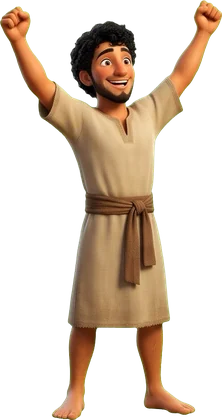
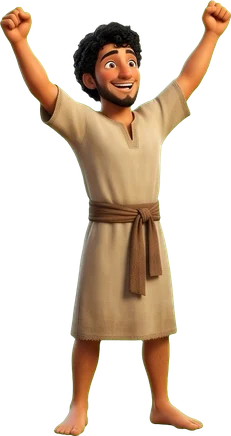
Scènes : taille constante des personnages (même échelle par planche, sans zoom), chef de Babel dans le bon sens, vautours venant du côté d'Abram
Claude-Session: https://claude.ai/code/session_013HPj2mwu9D7hiNDPhhnn6q

diff --git a/index.html b/index.html
@@ -1,4 +1,4 @@
-<!doctype html><html lang="fr"><head><meta charset="utf-8"><meta name="viewport" content="width=device-width,initial-scale=1,viewport-fit=cover"><meta name="theme-color" content="#1f4fd1"><meta name="description" content="Parcours Biblique : le jeu gratuit pour parcourir toute la Bible, niveau par niveau, et défier d'autres disciples en ligne."><link rel="manifest" href="/manifest.webmanifest"><link rel="icon" href="/icons/icon-192.png"><link rel="apple-touch-icon" href="/icons/apple-touch-icon.png"><meta name="apple-mobile-web-app-capable" content="yes"><meta name="mobile-web-app-capable" content="yes"><meta name="apple-mobile-web-app-title" content="Parcours Biblique"><script>window.PB_BUILD="e51178dbf0";</script><style>html,body{margin:0;height:100%}</style></head><body><script src="https://cdn.jsdelivr.net/npm/@supabase/supabase-js@2.45.4/dist/umd/supabase.js"></script>
+<!doctype html><html lang="fr"><head><meta charset="utf-8"><meta name="viewport" content="width=device-width,initial-scale=1,viewport-fit=cover"><meta name="theme-color" content="#1f4fd1"><meta name="description" content="Parcours Biblique : le jeu gratuit pour parcourir toute la Bible, niveau par niveau, et défier d'autres disciples en ligne."><link rel="manifest" href="/manifest.webmanifest"><link rel="icon" href="/icons/icon-192.png"><link rel="apple-touch-icon" href="/icons/apple-touch-icon.png"><meta name="apple-mobile-web-app-capable" content="yes"><meta name="mobile-web-app-capable" content="yes"><meta name="apple-mobile-web-app-title" content="Parcours Biblique"><script>window.PB_BUILD="c96ccad840";</script><style>html,body{margin:0;height:100%}</style></head><body><script src="https://cdn.jsdelivr.net/npm/@supabase/supabase-js@2.45.4/dist/umd/supabase.js"></script>
 <title>Parcours Biblique</title>
 <meta name="claude:viewport-fit-sides" content="cover">
 <link rel="preconnect" href="https://fonts.googleapis.com">
@@ -5540,23 +5540,23 @@ const SC={
  creation:{c:"Les ténèbres couvrent l'abîme",sky:"night",h:["🌍"],k:"dark",r:"Genèse 1:2",
    art:{dir:"creation",mode:"reveal",light:"lumiere",dark:"tenebres",bgFocus:.5,sk:"dark",snd:{}}},
  eden:{c:"Le serpent s'approche d'Ève",sky:"garden",h:["bib:eve"],p:"🌳",k:"walk",e:"🐍",r:"Genèse 3:1",
-   art:{dir:"eden",bg:"bg",bgFocus:.62,feet:.86,hero:{calm:"eve-calme",fear:"eve-peur",joy:"eve-joie",h:.66},threat:{walk:"serpent-rampe",attack:"serpent-dresse",h:.34,ha:.62,slither:1},snd:{}}},
+   art:{dir:"eden",bg:"bg",bgFocus:.62,feet:.86,hero:{calm:"eve-calme",fear:"eve-peur",joy:"eve-joie",h:.66,jh:1.08},threat:{walk:"serpent-rampe",attack:"serpent-dresse",h:.34,ha:.62,slither:1},snd:{}}},
  cain:{c:"Caïn s'approche d'Abel dans les champs",sky:"field",h:["bib:abel"],p:"🐑",k:"walk",e:"bib:cain",r:"Genèse 4:8",
    art:{dir:"cain",lamb:1,bg:"bg",bgFocus:.42,feet:.9,sk:"steps",voice:{p:1.25,fs:1.2},hero:{calm:"abel-calme",fear:"abel-peur",joy:"abel-joie",h:.66,jh:1.05},threat:{walk:"cain-marche",attack:"cain-attaque",h:.7,ha:.66,faceR:1,reach:.2},snd:{}}},
  flood:{c:"Les eaux montent : fais entrer les animaux",sky:"storm",h:["🐘","🦒"],p:"ark",pk:"bib:noe",k:"rise",e:"water",board:1,r:"Genèse 7:7-17",
    art:{dir:"flood",mode:"flood",bg:"bg",bgFocus:.45,sk:"flood",voice:{p:.42,fs:.85},pre:["arche","noe-peur","noe-joie","elephants-triste","elephants-joie","girafes-triste","girafes-joie"],snd:{}}},
  babel:{c:"Les langues sont confondues sur le chantier",sky:"day",h:["🧱"],p:"tower",k:"swarm",e:"💬",n:6,r:"Genèse 11:7",
-   art:{dir:"babel",bg:"bg",bgFocus:.62,feet:.9,sk:"steps",voice:{p:.55,fs:.9},hero:{calm:"ouvrier-calme",fear:"ouvrier-peur",joy:"ouvrier-joie",h:.66,jh:1.05},threat:{walk:"chef-marche",attack:"chef-crie",h:.62,ha:.64,angry:1,reach:.2,shout:["Balal !","Zibuk !","Krrah ?!","Mahta !","Ourouk !","Shpik !","Gnaa ?!"]},snd:{}}},
+   art:{dir:"babel",bg:"bg",bgFocus:.62,feet:.9,sk:"steps",voice:{p:.55,fs:.9},hero:{calm:"ouvrier-calme",fear:"ouvrier-peur",joy:"ouvrier-joie",h:.66},threat:{walk:"chef-marche",attack:"chef-crie",h:.62,faceR:1,reach:.2,shout:["Balal !","Zibuk !","Krrah ?!","Mahta !","Ourouk !","Shpik !","Gnaa ?!"]},snd:{}}},
  famine:{c:"La famine frappe le pays",sky:"desert",h:["bib:abraham"],p:"🐑",k:"dry",r:"Genèse 12:10",
-   art:{dir:"abram",mode:"reveal",light:"vert",dark:"sec",bgFocus:.3,feet:.93,tint:"110,60,10",rays:false,sk:"dry",voice:{p:.42,fs:.85},hero:{calm:"abram-calme",fear:"abram-peur",joy:"abram-joie",h:.68,fh:.68,jh:1.02},snd:{}}},
+   art:{dir:"abram",mode:"reveal",light:"vert",dark:"sec",bgFocus:.3,feet:.93,tint:"110,60,10",rays:false,sk:"dry",voice:{p:.42,fs:.85},hero:{calm:"abram-calme",fear:"abram-peur",joy:"abram-joie",h:.68},snd:{}}},
  lot:{c:"Les rois emmènent Lot prisonnier",sky:"desert",h:["🧔🏽"],p:"⛺",k:"walk",e:"🐎",n:3,r:"Genèse 14:12",
-   art:{dir:"lot",bg:"bg",bgFocus:.05,feet:.93,sk:"steps",voice:{p:.5,fs:.9},hero:{calm:"lot-calme",fear:"lot-peur",joy:"lot-joie",h:.64,jh:1},threat:{walk:"soldat-marche",attack:"soldat-charge",h:.64,ha:.64,faceR:1,reach:.22},snd:{}}},
+   art:{dir:"lot",bg:"bg",bgFocus:.05,feet:.93,sk:"steps",voice:{p:.5,fs:.9},hero:{calm:"lot-calme",fear:"lot-peur",joy:"lot-joie",h:.64},threat:{walk:"soldat-marche",attack:"soldat-charge",h:.64,faceR:1,reach:.22},snd:{}}},
  prey:{c:"Les oiseaux de proie s'abattent sur l'offrande",sky:"dusk",h:["bib:abraham"],p:"🔥",k:"fall",e:"🦅",r:"Genèse 15:11",
-   art:{dir:"abram",mode:"fly",bg:"autel",bgFocus:.72,feet:.93,sk:"birds",voice:{p:.42,fs:.85},hero:{calm:"abram-calme",fear:"abram-peur",joy:"abram-joie",h:.68,fh:.68,jh:1.02},threat:{walk:"vautour-vol",attack:"vautour-pique",walkFaceR:1,h:.3,ha:.38,tx:.66,ty:.34,flock:2},snd:{}}},
+   art:{dir:"abram",mode:"fly",bg:"autel",bgFocus:.72,feet:.93,sk:"birds",voice:{p:.42,fs:.85},hero:{calm:"abram-calme",fear:"abram-peur",joy:"abram-joie",h:.68},threat:{walk:"vautour-vol",attack:"vautour-pique",walkFaceR:1,h:.3,tx:.66,ty:.34,flock:2},snd:{}}},
  agar:{c:"L'eau de l'outre est épuisée",sky:"desert",h:["bib:agar","bib:ismael"],k:"dry",r:"Genèse 21:15",
-   art:{dir:"agar",mode:"heat",bg:"bg",bgFocus:.5,feet:.93,sk:"dry",voice:{p:1,fs:1},hero:{calm:"agar-calme",fear:"agar-peur",joy:"agar-joie",h:.62,fh:.46,jh:1},reward:"puits",rh:.5,snd:{}}},
+   art:{dir:"agar",mode:"heat",bg:"bg",bgFocus:.5,feet:.93,sk:"dry",voice:{p:1,fs:1},hero:{calm:"agar-calme",fear:"agar-peur",joy:"agar-joie",h:.62},reward:"puits",rh:.5,snd:{}}},
  sodom:{c:"Le soufre et le feu tombent sur Sodome",sky:"fire",h:["👨👩👧"],k:"fall",e:"🔥",r:"Genèse 19:24",
-   art:{dir:"sodom",mode:"firerain",bg:"bg",bgFocus:.5,feet:.93,sk:"fire",voice:{p:.9,fs:1},hero:{calm:"famille-fuit",fear:"famille-peur",joy:"famille-joie",h:.6,fh:.56,jh:1,sweat:"🔥"},threat:{walk:"feu"},snd:{}}},
+   art:{dir:"sodom",mode:"firerain",bg:"bg",bgFocus:.5,feet:.93,sk:"fire",voice:{p:.9,fs:1},hero:{calm:"famille-fuit",fear:"famille-peur",joy:"famille-joie",h:.6,sweat:"🔥"},threat:{walk:"feu"},snd:{}}},
  promise:{c:"Rien n'est impossible à l'Éternel",sky:"night",h:["bib:sara"],p:"⭐",k:"time",r:"Genèse 18:14"},
  moriah:{c:"Sur le mont Morija, Dieu pourvoira",sky:"dusk",h:["bib:isaac"],p:"🪵",k:"time",r:"Genèse 22:8"},
  well:{c:"Le soir tombe près du puits",sky:"dusk",h:["bib:eliezer"],p:"🐫",k:"dark",r:"Genèse 24:11"},
@@ -5911,7 +5911,7 @@ function seFig(c,a,name,x,feet,hh,o={}){const im=seSpr(a.dir,name);if(!seOk(im))
   c.drawImage(im,-w/2,-hh,w,hh);c.restore();return w;}
 /* héros : calme -> peur (danger proche) -> joie (bonne réponse), avec respiration, tremblement et saut */
 function seHero(c,a,hx,feet,p,st,t,o={}){const he=a.hero;if(!he)return 0;const pose=st==="win"?he.joy:(st==="hit"||st==="lose"||p>.45)?he.fear:he.calm,im=seSpr(a.dir,pose);if(!seOk(im))return 0;
-  const hh=SE.H*(he.h||.62)*(pose===he.joy?(he.jh||1.08):pose===he.fear?(he.fh||1):1),hw=im.naturalWidth*hh/im.naturalHeight;
+  const hh=SE.H*(he.h||.62)*(im.naturalHeight/(he.ref||420))*(pose===he.joy?(he.jh||1):pose===he.fear?(he.fh||1):1),hw=im.naturalWidth*hh/im.naturalHeight;
   const jump=st==="win"?Math.abs(Math.sin(SE.st*8))*16*Math.max(0,1-SE.st/1.3):0,trem=(p>.7&&!st)||st==="hit"?(Math.random()-.5)*(st==="hit"?6:3):0,breath=Math.sin(t*3)*.012;
   seShadow(c,hx,feet-2,Math.min(hw,SE.H*.3)*.42);
   c.save();c.translate(hx+trem,feet-jump);if(he.flip)c.scale(-1,1);c.scale(1-breath*.5,1+breath);if(st==="lose")c.filter="grayscale(.7)";c.drawImage(im,-hw/2,-hh,hw,hh);c.restore();
@@ -5919,7 +5919,7 @@ function seHero(c,a,hx,feet,p,st,t,o={}){const he=a.hero;if(!he)return 0;const p
   return hw;}
 function seShadow(c,x,y,w){c.fillStyle="rgba(0,0,0,.2)";c.beginPath();c.ellipse(x,y,w,4,0,0,7);c.fill();}
 function seCam(c,W,H,p,st,fx,fy){if(SE.shake>0)c.translate((Math.random()-.5)*12*SE.shake,(Math.random()-.5)*7*SE.shake);
-  const z=1+(st==="win"?0:Math.min(1,p))*.07;c.translate(fx,fy);c.scale(z,z);c.translate(-fx,-fy);}
+  }
 function seOverlays(c,W,H,st){if(SE.flash>0){c.fillStyle=`rgba(214,50,63,${SE.flash*.45})`;c.fillRect(0,0,W,H);}if(st==="lose"){c.fillStyle="rgba(20,20,30,.28)";c.fillRect(0,0,W,H);}}
 function seDrawArt(c,s,dt){const a=s.art;if(a.mode==="reveal")return seDrawReveal(c,s,dt);if(a.mode==="flood")return seDrawFlood(c,s,dt);if(a.mode==="fly")return seDrawFly(c,s,dt);if(a.mode==="heat")return seDrawHeat(c,s,dt);if(a.mode==="firerain")return seDrawFireRain(c,s,dt);
   const W=SE.W,H=SE.H,p=Math.max(0,SE.p),st=SE.state,t=SE.t;
@@ -5928,7 +5928,7 @@ function seDrawArt(c,s,dt){const a=s.art;if(a.mode==="reveal")return seDrawRevea
   seHero(c,a,hx,feet,p,st,t);
   /* danger */
   const th=a.threat,near=p>.84||st==="hit"||st==="lose",tn=near&&th.attack?th.attack:th.walk,ti=seSpr(a.dir,tn);
-  if(seOk(ti)){const thh=H*(near&&th.attack?th.ha||.6:th.h||.4),tw=ti.naturalWidth*thh/ti.naturalHeight;
+  if(seOk(ti)){const wi=seSpr(a.dir,th.walk),thh=near&&th.attack?(th.ha?H*th.ha:H*(th.h||.4)*ti.naturalHeight/(seOk(wi)?wi.naturalHeight:ti.naturalHeight)):H*(th.h||.4),tw=ti.naturalWidth*thh/ti.naturalHeight;
     const reach=hx+W*(near?(th.reach||.16):.1)+tw*.5,start=W+tw*.6;let X=reach+(start-reach)*(1-Math.min(1.04,p)),flip=!!th.faceR;
     if(st==="win"){X=reach+(start-reach)*(1-Math.min(1,p))+Math.pow(SE.st,2)*W*1.6;flip=!flip;}
     const wob=th.slither?Math.sin(t*7)*.05:0,bob=th.slither?Math.sin(t*14)*1.5:Math.abs(Math.sin(t*(th.faceR?9:10)))*4;
@@ -5937,7 +5937,7 @@ function seDrawArt(c,s,dt){const a=s.art;if(a.mode==="reveal")return seDrawRevea
     c.drawImage(ti,-tw/2,-thh,tw,thh);c.restore();
     if(!st&&Math.random()<dt*6)sePart({x:X+tw*.4*(flip?-1:1)*(th.faceR?-1:1),y:feet-3,vx:25+Math.random()*25,vy:-12,g:50,life:.5,kind:"dust",size:3+Math.random()*3});
     if((th.faceR||th.angry)&&p>.6&&!st&&Math.random()<dt*1.5)sePart({x:X-tw*.2,y:feet-thh*.95,vx:-8,vy:-26,life:.9,kind:"emo",t:"💢",size:13});
-    if(th.shout&&!st&&p>.15&&Math.random()<dt*(1.2+p*2.5))sePart({x:X-tw*.35,y:feet-thh*.92,vx:-30-Math.random()*20,vy:-18-Math.random()*14,life:1.1,kind:"say",t:th.shout[Math.floor(Math.random()*th.shout.length)],size:12});
+    if(th.shout&&!st&&p>.15&&Math.random()<dt*(1.2+p*2.5))sePart({x:X-tw*.3,y:feet-thh*.92,vx:-30-Math.random()*20,vy:-18-Math.random()*14,life:1.1,kind:"say",t:th.shout[Math.floor(Math.random()*th.shout.length)],size:12});
     if(th.shout&&!st&&p>.45&&Math.random()<dt*1.2)sePart({x:hx+8,y:feet-H*(a.hero.h||.6)-6,vy:-16,life:.8,kind:"emo",t:"❓",size:14});
     if(st==="hit"&&SE.st<.25)sePart({x:hx+W*.08,y:feet-H*.35,life:.35,kind:"emo",t:"💥",size:34});}
   sePartsDraw(c,dt);c.restore();seOverlays(c,W,H,st);}
@@ -6111,15 +6111,16 @@ function saLose(){if(!SA.on)return;const k=SA.k;
 function seDrawFly(c,s,dt){const a=s.art,W=SE.W,H=SE.H,st=SE.state,t=SE.t,p=Math.max(0,SE.p);
   c.save();seCam(c,W,H,p,st,W*.6,H*.5);seBg(c,a,a.bg,W,H);
   seHero(c,a,W*.17,H*(a.feet||.9),p,st,t);
-  const th=a.threat,tx=W*(th.tx||.68),ty=H*(th.ty||.38),sx=W*.98,sy=H*.12,near=p>.84||st==="hit"||st==="lose";
-  let x=sx+(tx-sx)*Math.min(1,p),y=sy+(ty-sy)*Math.min(1,p)+Math.sin(t*2.2)*10*(1-p),name=near?th.attack:th.walk,flip=!near&&th.walkFaceR,hh=H*(near?th.ha||.42:th.h||.3);
-  if(st==="win"){name=th.walk;flip=!th.walkFaceR;x=tx+Math.pow(SE.st,2)*W*1.4;y=ty-SE.st*H*.9;}
-  else{x+=Math.sin(t*1.3)*14*(1-p);y+=near?-Math.abs(Math.sin(t*9))*6:0;}
+  const th=a.threat,tx=W*(th.tx||.68),ty=H*(th.ty||.38),sx=-W*.1,sy=H*.27,near=p>.84||st==="hit"||st==="lose";
+  const wi=seSpr(a.dir,th.walk),wh=seOk(wi)?wi.naturalHeight:200;
+  let x=sx+(tx-sx)*Math.min(1,p),y=sy+(ty-sy)*Math.min(1,p)-Math.sin(Math.min(1,p)*Math.PI)*H*.06,name=near?th.attack:th.walk,goRight=true;
+  if(st==="win"){name=th.walk;x=tx+Math.pow(SE.st,2)*W*1.4;y=ty-SE.st*H*.9;}
+  else if(near)y+=-Math.abs(Math.sin(t*9))*6;
   const im=seSpr(a.dir,name);
-  if(seOk(im)){const w=im.naturalWidth*hh/im.naturalHeight,flap=near?1:1+Math.sin(t*(st==="win"?16:7))*.12;
-    c.save();c.translate(x,y);if(flip)c.scale(-1,1);c.scale(1,flap);c.rotate(near?0:(st==="win"?-.25:.12));c.drawImage(im,-w/2,-hh/2,w,hh);c.restore();}
-  if(th.flock&&st!=="win")for(let k=0;k<th.flock;k++){const q=Math.max(0,p-.15*(k+1)),fx=sx+(tx-sx)*q*.8+30+k*45,fy=sy+(ty-sy)*q*.5+Math.sin(t*1.7+k)*8+k*10;const im2=seSpr(a.dir,th.walk);
-    if(q>0&&seOk(im2)){const h2=H*.2,w2=im2.naturalWidth*h2/im2.naturalHeight;c.save();c.translate(fx,fy);if(th.walkFaceR)c.scale(-1,1);c.scale(1,1+Math.sin(t*7+k)*.15);c.drawImage(im2,-w2/2,-h2/2,w2,h2);c.restore();}}
+  if(seOk(im)){const faceR=name===th.walk?!!th.walkFaceR:!!th.attackFaceR,flip=goRight!==faceR,hh=H*(th.h||.3)*im.naturalHeight/wh,w=im.naturalWidth*hh/im.naturalHeight,flap=near?1:1+Math.sin(t*(st==="win"?16:7))*.12;
+    c.save();c.translate(x,y);if(flip)c.scale(-1,1);c.scale(1,flap);c.rotate(near?0:(st==="win"?-.25:.1));c.drawImage(im,-w/2,-hh/2,w,hh);c.restore();}
+  if(th.flock&&st!=="win")for(let k=0;k<th.flock;k++){const q=Math.max(0,p-.15*(k+1)),fx=sx+(tx-sx)*q*.85-30-k*45,fy=sy+(ty-sy)*q*.5+Math.sin(t*1.7+k)*8+k*12;
+    if(q>0&&seOk(wi)){const h2=H*.18,w2=wi.naturalWidth*h2/wi.naturalHeight;c.save();c.translate(fx,fy);if(!th.walkFaceR)c.scale(-1,1);c.scale(1,1+Math.sin(t*7+k)*.15);c.drawImage(wi,-w2/2,-h2/2,w2,h2);c.restore();}}
   if(st==="hit"&&SE.st<.3){sePart({x:tx,y:ty+10,life:.35,kind:"emo",t:"💥",size:30});for(let i=0;i<3;i++)sePart({x:tx,y:ty,vx:(Math.random()-.5)*90,vy:-40,g:60,life:1.2,kind:"emo",t:"🪶",size:10});}
   sePartsDraw(c,dt);c.restore();seOverlays(c,W,H,st);}
 
